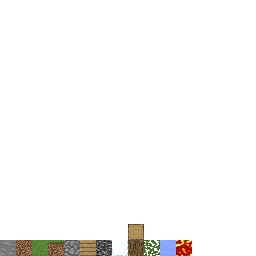
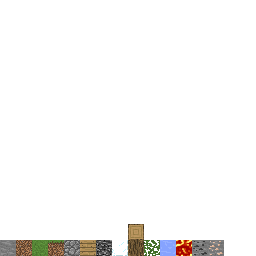
Add ore, decorate phase

Changed region(s): [[0.75, 0.9375, 0.875, 1.0]]

diff --git a/src/shared/world/jeneration.cpp b/src/shared/world/jeneration.cpp
@@ -15,8 +15,18 @@ OverworldJeneration::OverworldJeneration()
 	dirtNoise.seed = seed + 230;
 	dirtNoise.noise_type = FNL_NOISE_PERLIN;
 	dirtNoise.frequency = 0.0125;
+
+	oreNoise = fnlCreateState();
+	oreNoise.seed = seed - 2587;
+	oreNoise.noise_type = FNL_NOISE_OPENSIMPLEX2;
+	oreNoise.frequency = 0.075;
+	oreNoise.octaves = 4;
+	oreNoise.lacunarity = 0.6;
+	oreNoise.gain = 1.3;
+	oreNoise.weighted_strength = 0.8;
 }
 
+// Generates the base stone skeleton
 void OverworldJeneration::GenBase(Chunk *c)
 {
 	for (int i = 0; i < sizeof(c->blocks) / sizeof(Block); i++)
@@ -38,6 +48,7 @@ void OverworldJeneration::GenBase(Chunk *c)
 	}
 }
 
+// Replaces the surface and sometimes under that with block suiteable for the biome
 void OverworldJeneration::BiomeBlocks(Chunk *c)
 {
 	// Grassification
@@ -45,7 +56,7 @@ void OverworldJeneration::BiomeBlocks(Chunk *c)
 	{
 		for (int z = 0; z < CHUNKSIZE_Z; z++)
 		{
-			int grassDepth = 2 + (2 * (1+fnlGetNoise2D(&dirtNoise, x, z)));
+			int grassDepth = 2 + (2 * (1+fnlGetNoise2D(&dirtNoise, x+c->GetPosInWorld().x, z+c->GetPosInWorld().z)));
 
 			// We follow down to -1 so we can alter the blocks in the chunk below
 			for (int y = CHUNKSIZE_Y; y > -1; y--)
@@ -74,8 +85,29 @@ void OverworldJeneration::BiomeBlocks(Chunk *c)
 	}
 }
 
+// Decorates with ores, plants, etc.
+void OverworldJeneration::Decorate(Chunk *c)
+{
+	// Ore
+	for (int i = 0; i < sizeof(c->blocks) / sizeof(Block); i++)
+	{
+		if (c->blocks[i].blockType != STONE)
+			continue;
+
+		int x, y, z;
+		CHUNK1D_TO_3D(i, x, y, z);
+		Vector WorldPosition = c->PosToWorld(Vector(x,y,z));
+
+		float noiseData = fnlGetNoise3D(&oreNoise, WorldPosition.x,WorldPosition.y,WorldPosition.z) * 1.1;
+
+		if (noiseData > 0.9)
+			c->blocks[i].blockType = ORE_COAL;
+	}
+}
+
 void OverworldJeneration::Generate(Chunk *c)
 {
 	GenBase(c);
 	BiomeBlocks(c);
+	Decorate(c);
 }

diff --git a/src/shared/entities/entityplayer.cpp b/src/shared/entities/entityplayer.cpp
@@ -82,7 +82,7 @@ void EntityPlayer::UpdateClient(World *clientSideWorld)
 		selectedBlockType = blocktype_t(selectedBlockType + 1);
 		if (selectedBlockType == blocktype_t::BEDROCK)
 			selectedBlockType = blocktype_t(selectedBlockType + 1);
-		if (selectedBlockType > blocktype_t::LAVA)
+		if (selectedBlockType > blocktype_t::ORE_IRON)
 			selectedBlockType = blocktype_t::STONE;
 	}
 	else if (inputMan->mouseState & IN_WHEEL_DOWN)
@@ -91,7 +91,7 @@ void EntityPlayer::UpdateClient(World *clientSideWorld)
 		if (selectedBlockType == blocktype_t::BEDROCK)
 			selectedBlockType = blocktype_t(selectedBlockType - 1);
 		if (selectedBlockType <= blocktype_t::AIR)
-			selectedBlockType = blocktype_t::LAVA;
+			selectedBlockType = blocktype_t::ORE_IRON;
 	}
 }
 #endif

diff --git a/src/client/rendering/blocktexture.cpp b/src/client/rendering/blocktexture.cpp
@@ -56,5 +56,11 @@ BlockTexture GetDefaultBlockTextureSide(blocktype_t type, Direction side)
 		case LAVA:
 			return {11,0, 1,1};
 		break;
+		case ORE_COAL:
+			return {12,0, 1,1};
+		break;
+		case ORE_IRON:
+			return {13,0, 1,1};
+		break;
 	}
 }

diff --git a/src/shared/world/jeneration.hpp b/src/shared/world/jeneration.hpp
@@ -13,10 +13,12 @@ class OverworldJeneration
 
 		void GenBase(Chunk *c);
 		void BiomeBlocks(Chunk *c);
+		void Decorate(Chunk *c);
 
 	private:
 		fnl_state baseNoise;
 		fnl_state dirtNoise;
+		fnl_state oreNoise;
 
 		int seed = 69;
 };

diff --git a/src/shared/blockdef.hpp b/src/shared/blockdef.hpp
@@ -19,6 +19,8 @@ enum blocktype_t {
 	LEAVES   = 9,
 	WATER    = 10,
 	LAVA     = 11,
+	ORE_COAL = 12,
+	ORE_IRON = 13,
 };
 
 enum blockmaterial_t {
